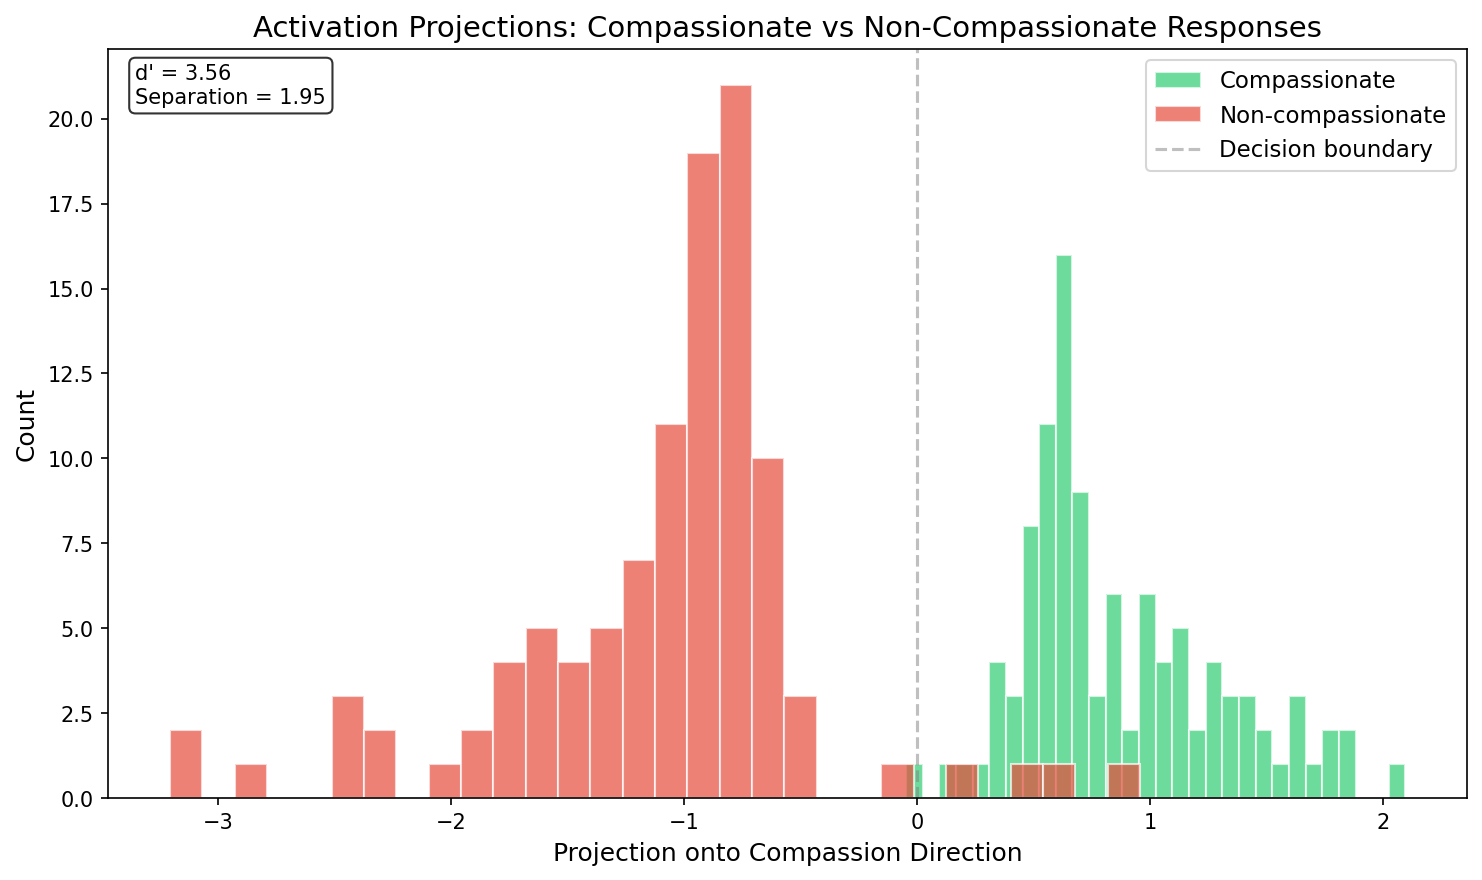
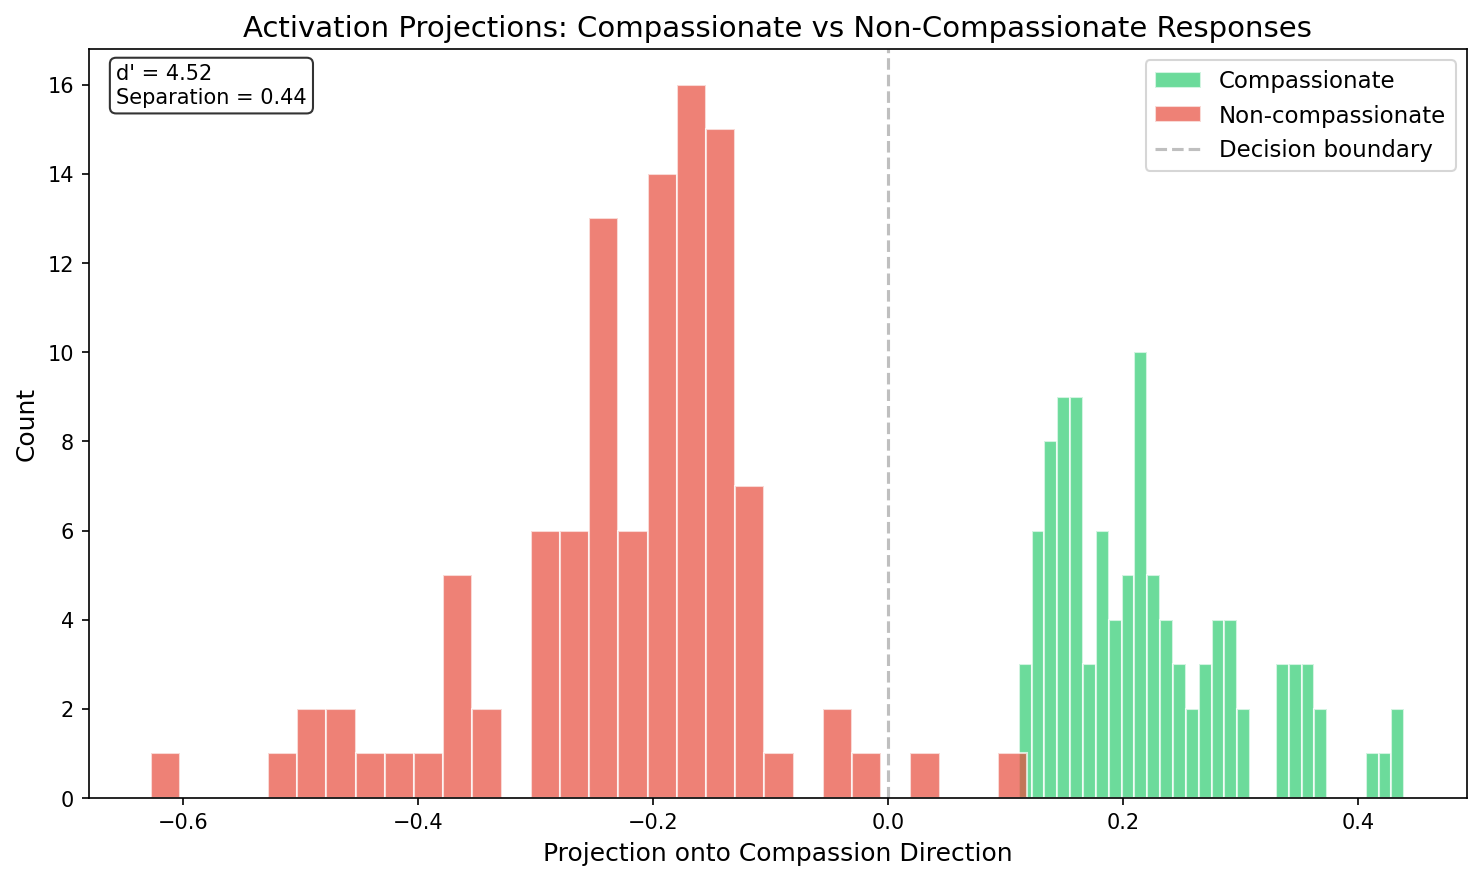
Update visualizations for Layer 8 (best performer)
- ROC curve, confusion matrix, projection distribution now for Layer 8
- d' improved from 3.56 (Layer 24) to 4.52 (Layer 8)
- Direction similarity figure now shows all 6 layers with peak highlighted

diff --git a/docs/presentation.md b/docs/presentation.md
@@ -153,19 +153,19 @@ Performance vs layer depth shows monotonic decrease:
 
 ![Performance vs Depth](figures/performance_vs_depth.png)
 
-#### Projection Distribution (Layer 24)
+#### Projection Distribution (Layer 8 — Best)
 
 The probe successfully separates compassionate from non-compassionate responses in activation space:
 
 ![Projection Distribution](figures/projection_distribution.png)
 
-**d' (discriminability) = 3.56** — Strong separation between classes.
+**d' (discriminability) = 4.52** — Excellent separation between classes (higher than Layer 24's 3.56).
 
-#### ROC Curve (Layer 24)
+#### ROC Curve (Layer 8)
 
 ![ROC Curve](figures/roc_curve.png)
 
-#### Confusion Matrix (Layer 24)
+#### Confusion Matrix (Layer 8)
 
 ![Confusion Matrix](figures/confusion_matrix.png)
 
@@ -184,7 +184,7 @@ The two methods (difference-in-means vs logistic regression) show interesting pa
 
 ![Direction Similarity](figures/direction_similarity.png)
 
-**Observation:** Direction similarity peaks at layer 16, but probe accuracy peaks at layer 8. This suggests that while the two methods converge most at mid-depth, the actual discriminative information is stronger in earlier layers.
+**Observation:** Direction similarity peaks at layer 16 (0.871), but probe accuracy peaks at layer 8. This divergence suggests that method convergence does not predict discriminative power — the strongest signal is in earlier layers where the methods agree less.
 
 ### 3.5 Timing
 
